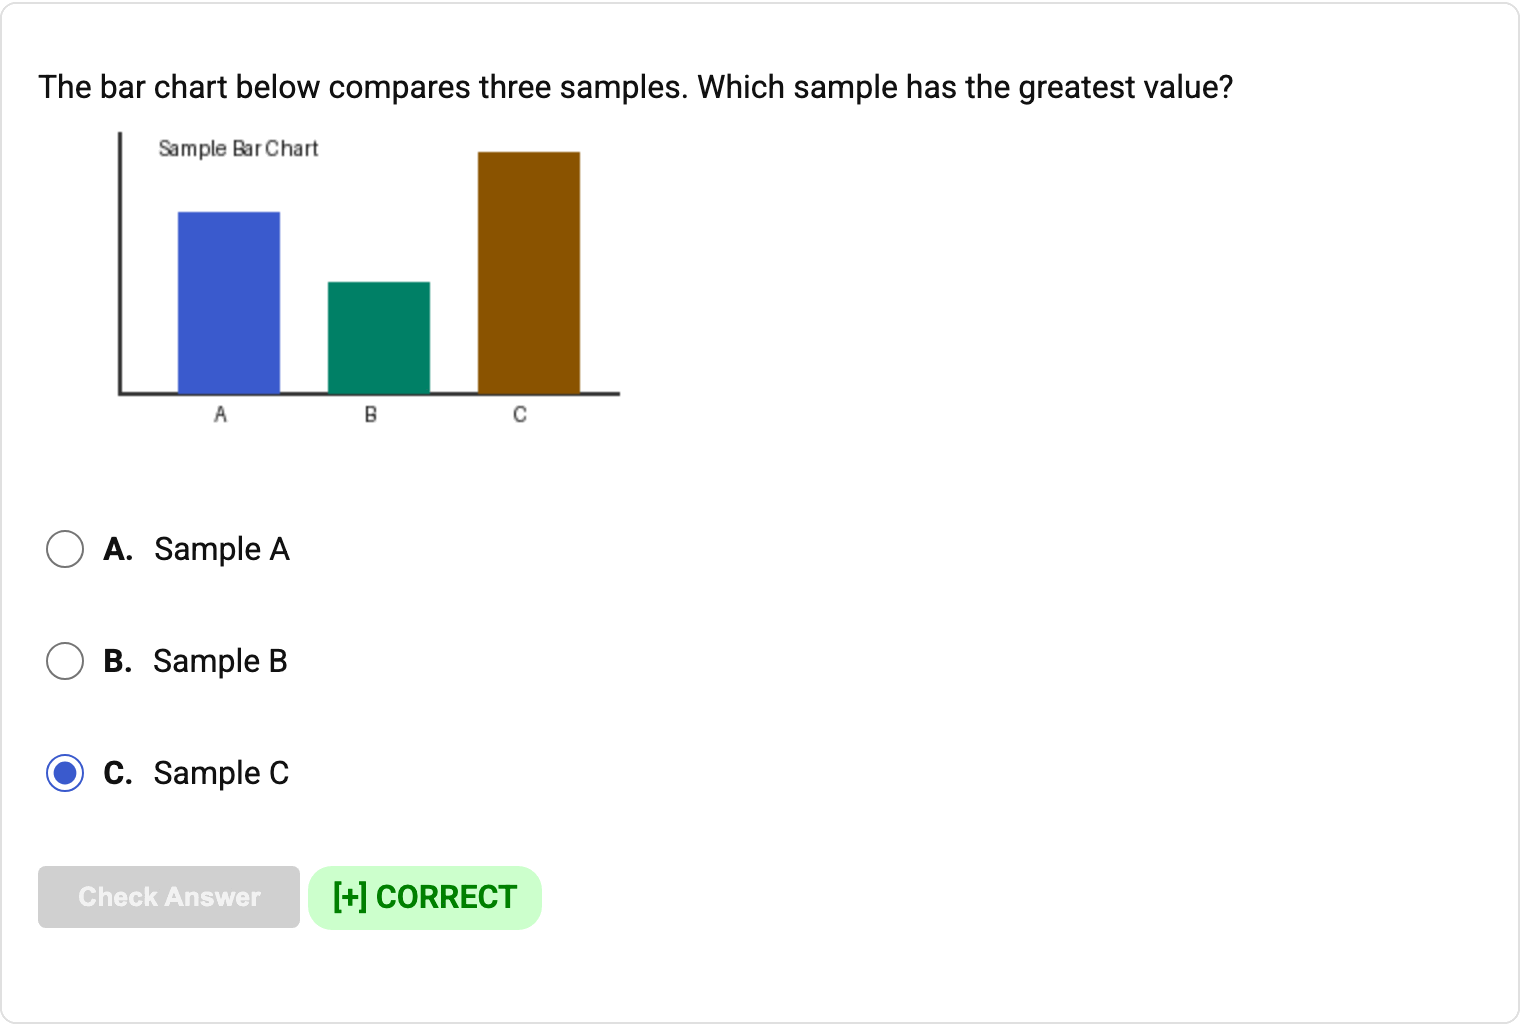
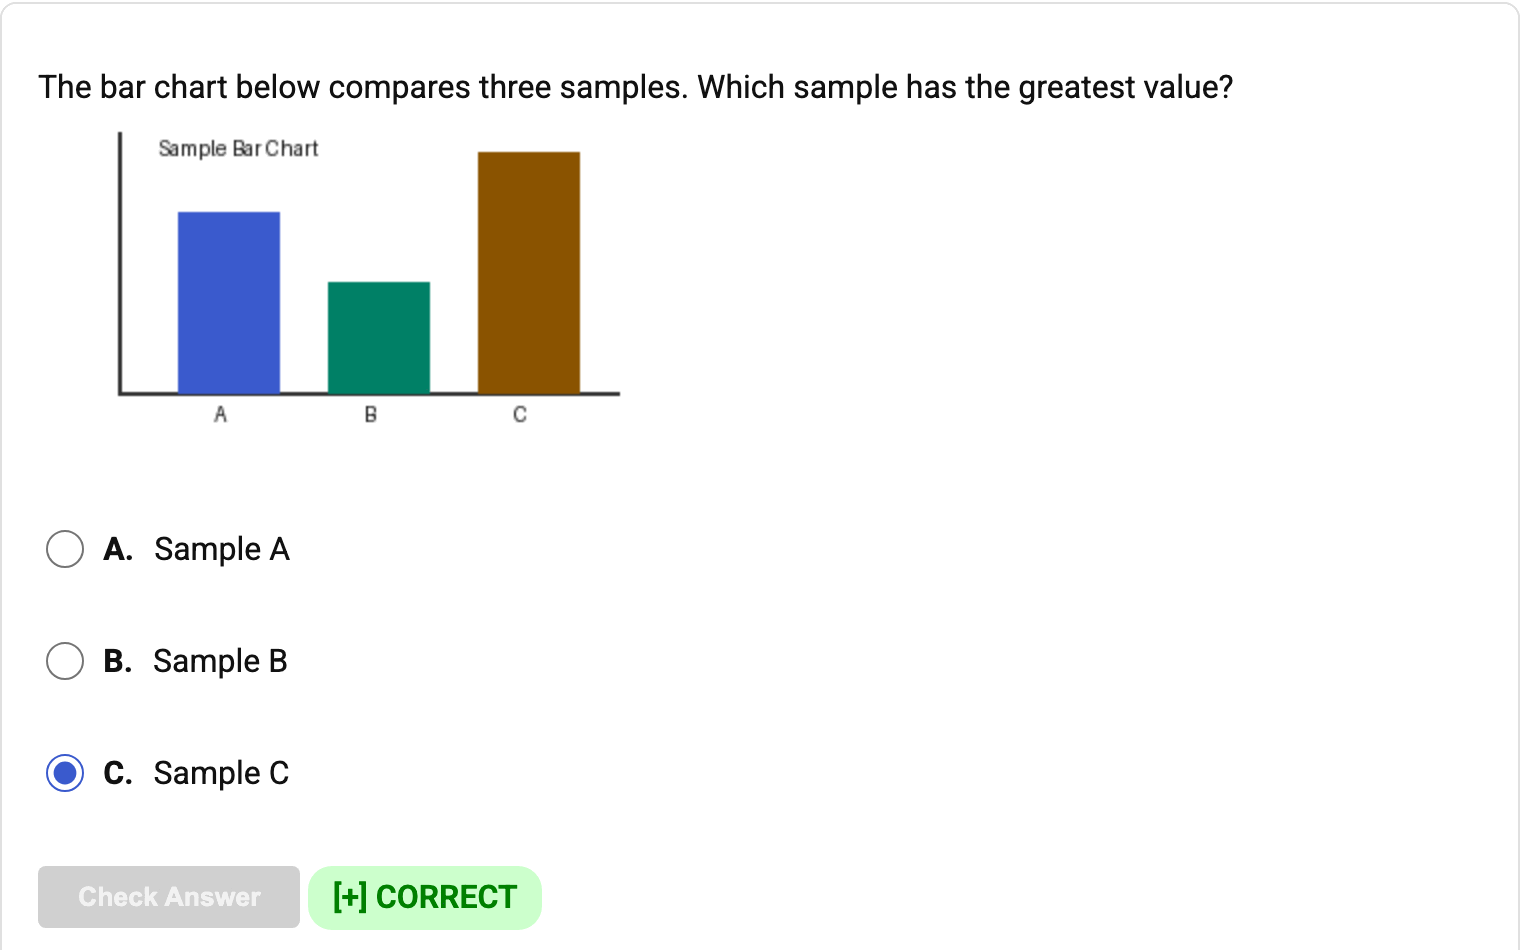
Refreshed `README.md` as a newcomer-focused landing page: a... (+2 more)
## 2026-07-14
- Refreshed `README.md` as a newcomer-focused landing page: added a compact destination and image
  compatibility chart, moved the existing self-test screenshots into a named proof section, added a...
## 2026-07-02
- Completed an audit follow-up on the 2026-07-01 image-support close-out: mechanical
  comment/docstring cleanup, three doc corrections, and a full doc-set refresh for new visitors. No...
## 2026-07-01
- Closed out the image-support plan through WP-P1: every engineering work package was complete,
  specification and quality reviewed, remediated, and verified; the full suite passed 2799 tests. T...

diff --git a/README.md b/README.md
@@ -1,74 +1,135 @@
 # QTI Package Maker
 
-Converts question banks between learning-management-system formats, so instructors can move
-assessments between Blackboard, Canvas, and Moodle without rebuilding them. Embedded images are
-now bundled into the exported packages.
+Converts question banks into portable LMS packages and standalone teaching formats, so instructors
+can move assessments between Blackboard, Canvas, and Moodle without rebuilding questions or losing
+embedded images.
 
-The tool reads a question bank in one format and writes it out to many others. Supported targets
-include Blackboard (Original and Ultra), Canvas, Moodle Aiken, text2qti, a human-readable text
-export, a standalone HTML self-test page, and a print-oriented exam YAML. Seven question types are
-supported: multiple choice, multiple answer, matching, numerical entry, fill-in-the-blank,
-multi-part fill-in-the-blank, and ordered list.
+**Write the bank once. Deliver it wherever students need it.** One source can become an LMS import,
+a readable review copy, a printable exam source, or a self-grading web quiz.
 
-Image support is now end to end: a Blackboard question-upload text file with `<img>` tags converts
-into Canvas and Blackboard packages with the images bundled inside, so figures survive the move
-between systems.
+## One bank, many destinations
+
+| Destination | What you get | Best for | Image handling |
+| --- | --- | --- | --- |
+| Canvas and LibreTexts ADAPT | QTI 1.2 ZIP | Course imports | Packaged in the ZIP |
+| Blackboard Learn and Ultra | QTI 2.1 or pool ZIP | Course and pool imports | Packaged in the ZIP |
+| Any modern browser | One self-contained HTML file | Practice and review | Inlined in the HTML |
+| Moodle, print, and text workflows | Aiken, exam YAML, and readable text | Reuse outside QTI | Referenced or described |
+
+Blackboard image imports are backed by real Learn and Ultra sandbox probes. Canvas package structure
+and image references pass automated checks, but live Canvas image rendering remains unverified because
+the public Free for Teacher sandbox was discontinued. See
+[docs/ENGINES.md](docs/ENGINES.md) for the complete compatibility matrix and exact limitations.
+
+## See the bank teach itself
 
 <!-- screenshots:begin (managed by screenshot-docs) -->
-![Self-test page with multiple choice, multiple answer, and numeric entry questions and an embedded bar chart figure](docs/screenshots/html_selftest_quiz.png)
+![Ungraded self-test question with an embedded bar chart, three choices, and a Check Answer button](docs/screenshots/html_selftest_quiz.png)
 
 ![Multiple choice question graded as correct, showing the embedded figure and the green CORRECT feedback pill](docs/screenshots/html_selftest_graded.png)
-
-The standalone HTML self-test export renders varied question types with bundled images and instant self-grading feedback.
 <!-- screenshots:end -->
 
-## Documentation
+The first image shows the ready-to-answer state; the second shows the same item after a correct
+response. The same question bank that produces an LMS package can also produce this portable quiz:
+no server, account, or external image folder required.
 
-Getting started:
-- [docs/INSTALL.md](docs/INSTALL.md): Setup, dependencies, and environment.
-- [docs/USAGE.md](docs/USAGE.md): CLI usage and worked examples.
-- [docs/TROUBLESHOOTING.md](docs/TROUBLESHOOTING.md): Common issues and fixes.
+## Why instructors use it
 
-Formats and engines:
-- [docs/FORMATS.md](docs/FORMATS.md): Input and output formats.
-- [docs/ENGINES.md](docs/ENGINES.md): Reader and writer engines and their capabilities.
-- [docs/QUESTION_TYPES.md](docs/QUESTION_TYPES.md): The seven question types and their fields.
-
-Internals:
-- [docs/CODE_ARCHITECTURE.md](docs/CODE_ARCHITECTURE.md): Reader/writer engine design and data flow.
-- [docs/FILE_STRUCTURE.md](docs/FILE_STRUCTURE.md): Repository layout and file map.
-- [docs/DEVELOPMENT.md](docs/DEVELOPMENT.md): Developer workflows and testing.
+- Move questions among Blackboard, Canvas, Moodle, and LibreTexts ADAPT workflows.
+- Preserve embedded PNG, JPEG, and GIF figures in packaged LMS exports.
+- Cover seven assessment types, from multiple choice to matching and ordered lists.
+- Review content as readable text before importing it into a course.
+- Publish a self-contained HTML practice quiz with instant grading.
+- Use the command line for conversions or the Python API for generated question banks.
 
 ## Quick start
 
+Requires Python 3.10 or newer; tested with Python 3.12. From a fresh checkout:
+
 ```sh
-python3 -m venv .venv
+git clone https://github.com/vosslab/qti_package_maker.git
+cd qti_package_maker
+python3.12 -m venv .venv
 source .venv/bin/activate
-pip install -r pip_requirements.txt
-pip install -e .
-python3 tools/bbq_converter.py -i bbq-mycourse-questions.txt --all
+python -m pip install -r pip_requirements.txt
+source source_me.sh
+printf 'MC\tWhat color is a clear sky?\tblue\tcorrect\tgreen\tincorrect\n' > bbq-demo-questions.txt
+python tools/bbq_converter.py -i bbq-demo-questions.txt -1 -r -s
 ```
 
-Substitute your own Blackboard question-upload text file, named per the
-`bbq-<name>-questions.txt` pattern, for `bbq-mycourse-questions.txt`. Pick specific output engines
-with `-f`, for example `-f canvas_qti_v1_2 -f human_readable`. For the BBQ input format, the full
-engine list, and more examples, see [docs/USAGE.md](docs/USAGE.md).
+This converts one Blackboard question-upload row into three useful artifacts:
+
+- `qti12-demo.zip`: a Canvas QTI 1.2 import package.
+- `human-demo.html`: a readable review copy.
+- `selftest-demo.html`: a self-contained, self-grading quiz.
+
+Input rows are tab-delimited, and input filenames follow `bbq-<name>-questions.txt`. The complete
+installation paths, including virtual environments and PyPI, are in
+[docs/INSTALL.md](docs/INSTALL.md).
+
+## Choose an output
+
+Select one or more outputs in the same conversion:
+
+```sh
+python tools/bbq_converter.py -i bbq-demo-questions.txt \
+	-f canvas_qti_v1_2 -f blackboard_qti_v2_1 -f html_selftest
+```
+
+Use `-a` to select every CLI output or `python tools/bbq_converter.py -h` to see the available
+shortcuts. Some specialized engines are API-only; [docs/USAGE.md](docs/USAGE.md) covers the full CLI
+and Python API, while [docs/FORMATS.md](docs/FORMATS.md) defines inputs and outputs.
+
+## Use it from Python
+
+Build a mixed question bank directly when the source is generated rather than stored in a text file:
+
+```python
+from qti_package_maker import package_interface
+
+bank = package_interface.QTIPackageInterface("bio101", allow_mixed=True)
+bank.add_item("MC", ("What color is a clear sky?", ["blue", "green"], "blue"))
+bank.add_item("MA", ("Which are primes?", ["2", "3", "4"], ["2", "3"]))
+bank.save_package("canvas_qti_v1_2", "bio101.zip")
+```
+
+The result is a Canvas-ready QTI ZIP built through the same engine used by the command-line workflow.
+
+## Documentation
+
+Start here:
+
+- [docs/INSTALL.md](docs/INSTALL.md): Setup, dependencies, and installation choices.
+- [docs/USAGE.md](docs/USAGE.md): CLI commands, Python API, images, and worked examples.
+- [docs/ENGINES.md](docs/ENGINES.md): Complete engine, question-type, and media compatibility tables.
+- [docs/TROUBLESHOOTING.md](docs/TROUBLESHOOTING.md): Symptoms, error messages, and fixes.
+
+Go deeper:
+
+- [docs/FORMATS.md](docs/FORMATS.md): Supported input and output formats.
+- [docs/QUESTION_TYPES.md](docs/QUESTION_TYPES.md): Fields for all seven assessment types.
+- [docs/CODE_ARCHITECTURE.md](docs/CODE_ARCHITECTURE.md): Reader, item-bank, and writer data flow.
+- [docs/FILE_STRUCTURE.md](docs/FILE_STRUCTURE.md): Repository layout and generated artifacts.
+
+## Project status
+
+The project is beta software. Runtime modules require Python 3.10 or newer, while the development
+and test environment targets Python 3.12. Blackboard Learn and Ultra image paths have live-import
+evidence; Canvas image packaging follows the QTI structure and passes local integrity tests, but
+still needs verification in an institutional Canvas sandbox.
 
 ## License
 
-Code is licensed under LGPLv3. See [LICENSE.LGPL_v3](LICENSE.LGPL_v3).
+Code is licensed under the GNU Lesser General Public License v3. See
+[LICENSE.LGPL_v3](LICENSE.LGPL_v3).
 
-## Author
+## Author and support
 
-Neil Voss, [bsky.app/profile/neilvosslab.bsky.social](https://bsky.app/profile/neilvosslab.bsky.social).
+Created by Neil Voss. Follow the work on
+[Bluesky](https://bsky.app/profile/neilvosslab.bsky.social),
+[YouTube](https://www.youtube.com/neilvosslab), or [GitHub](https://github.com/vosslab).
 
-## Support and links
-
-- **Bitcoin:** [Donate with Bitcoin](bitcoin:bc1qdexkqwzyet93ret40akqmms2jv99wvsgzdshu8?message=support%20qti_package_maker)
-- **Dash:** [Donate with Dash](dash:XdDmwBVecEy9yyXKeD7hScLp7oN8rd4XNV?message=support%20qti_package_maker)
-- **Patreon:** [Support on Patreon](https://www.patreon.com/vosslab)
-- **Paypal:** [Donate via PayPal](https://paypal.me/vosslab)
-- [YouTube](https://www.youtube.com/neilvosslab)
-- [GitHub](https://github.com/vosslab)
-- [Facebook](https://fb.me/neilvosslab)
-- [LinkedIn](https://www.linkedin.com/in/vosslab)
+Support continued development through
+[Patreon](https://www.patreon.com/vosslab), [PayPal](https://paypal.me/vosslab),
+[Bitcoin](bitcoin:bc1qdexkqwzyet93ret40akqmms2jv99wvsgzdshu8?message=support%20qti_package_maker),
+or [Dash](dash:XdDmwBVecEy9yyXKeD7hScLp7oN8rd4XNV?message=support%20qti_package_maker).

diff --git a/docs/CHANGELOG.md b/docs/CHANGELOG.md
@@ -1,11 +1,19 @@
 # Changelog
 
-## 2026-07-02
+## 2026-07-14
 
-Audit follow-up on the 2026-07-01 image-support close-out (mechanical
-comment/docstring cleanup and three doc corrections) plus a full doc-set
-refresh for new visitors. No production code change; full suite still 2799
-passed.
+### Behavior or Interface Changes
+
+- Refreshed `README.md` as a newcomer-focused landing page: added a compact destination and image
+  compatibility chart, moved the existing self-test screenshots into a named proof section, added a
+  reproducible input-to-three-outputs quick start and Python API example, surfaced Canvas live-import
+  limitations before onboarding, aligned package metadata and docs on Python 3.10+ runtime syntax,
+  Python 3.11+ `tomllib` development tooling, and the tested Python 3.12 environment, cropped both
+  managed self-test screenshots to exact 16:10 frames with accessible before-and-after prose, and
+  curated the documentation and support routes. Moved the 2026-07-02 and 2026-07-01 lead summaries
+  into their `Developer Tests and Notes` subsections so every day-block entry is categorized.
+
+## 2026-07-02
 
 ### Additions and New Features
 
@@ -546,6 +554,9 @@ passed.
 
 ### Developer Tests and Notes
 
+- Completed an audit follow-up on the 2026-07-01 image-support close-out: mechanical
+  comment/docstring cleanup, three doc corrections, and a full doc-set refresh for new visitors.
+  No production code changed; the full suite still passed 2799 tests.
 - Recorded user-verified field evidence in `docs/BLACKBOARD_ULTRA_NOTES.md`:
   every `blackboard_qti_v2_1` export the user has tried imports successfully
   into Ultra, with per-feature degradation (matching questions skipped, table
@@ -553,11 +564,6 @@ passed.
   rejection. No code change.
 
 ## 2026-07-01
-
-Image-support plan close-out. Every engineering work package (WP-C1 through
-WP-P1) is complete, spec and quality reviewed, remediated, and verified; full
-suite 2799 passed. The plan stays in `docs/active_plans/active/` because WP-U1
-(Ultra decision) waits on the human gate-D sandbox import.
 
 ### Additions and New Features
 
@@ -670,6 +676,10 @@ suite 2799 passed. The plan stays in `docs/active_plans/active/` because WP-U1
 
 ### Developer Tests and Notes
 
+- Closed out the image-support plan through WP-P1: every engineering work package was complete,
+  specification and quality reviewed, remediated, and verified; the full suite passed 2799 tests.
+  The plan remained in `docs/active_plans/active/` because WP-U1 still awaited the human gate-D
+  sandbox import.
 - Patch 3 (WP-T1): add `tests/unit/test_media_assets.py`, the frozen-API unit
   matrix with inline base64 image constants (a JPEG constant and a
   first-class-raster test were added at spec review).

diff --git a/docs/DEVELOPMENT.md b/docs/DEVELOPMENT.md
@@ -28,8 +28,9 @@ pip install -e .
 
 Runtime dependencies live in `pip_requirements.txt`; developer-only tools (for
 example `pytest`) live in `pip_requirements-dev.txt`. The package targets
-Python 3.9+ at runtime (`requires-python` in `pyproject.toml`); day-to-day
-development uses Python 3.12.
+Python 3.10+ at runtime (`requires-python` in `pyproject.toml`); day-to-day
+development uses Python 3.12. Development scripts that import the standard-library
+`tomllib` module require Python 3.11+.
 
 ## Running the tool
 

diff --git a/docs/INSTALL.md b/docs/INSTALL.md
@@ -7,7 +7,8 @@ into your environment.
 
 ## Requirements
 
-- Python 3.9+ (project metadata); local tooling targets Python 3.12.
+- Python 3.10+ for the package; development and tests target Python 3.12.
+- Python 3.11+ for development scripts that use the standard-library `tomllib` module.
 - pip, and Git for source installs.
 - Runtime dependencies: `crcmod`, `lxml`, `num2words`, `pyyaml`, `tabulate`
   (installed automatically by the pip steps below).